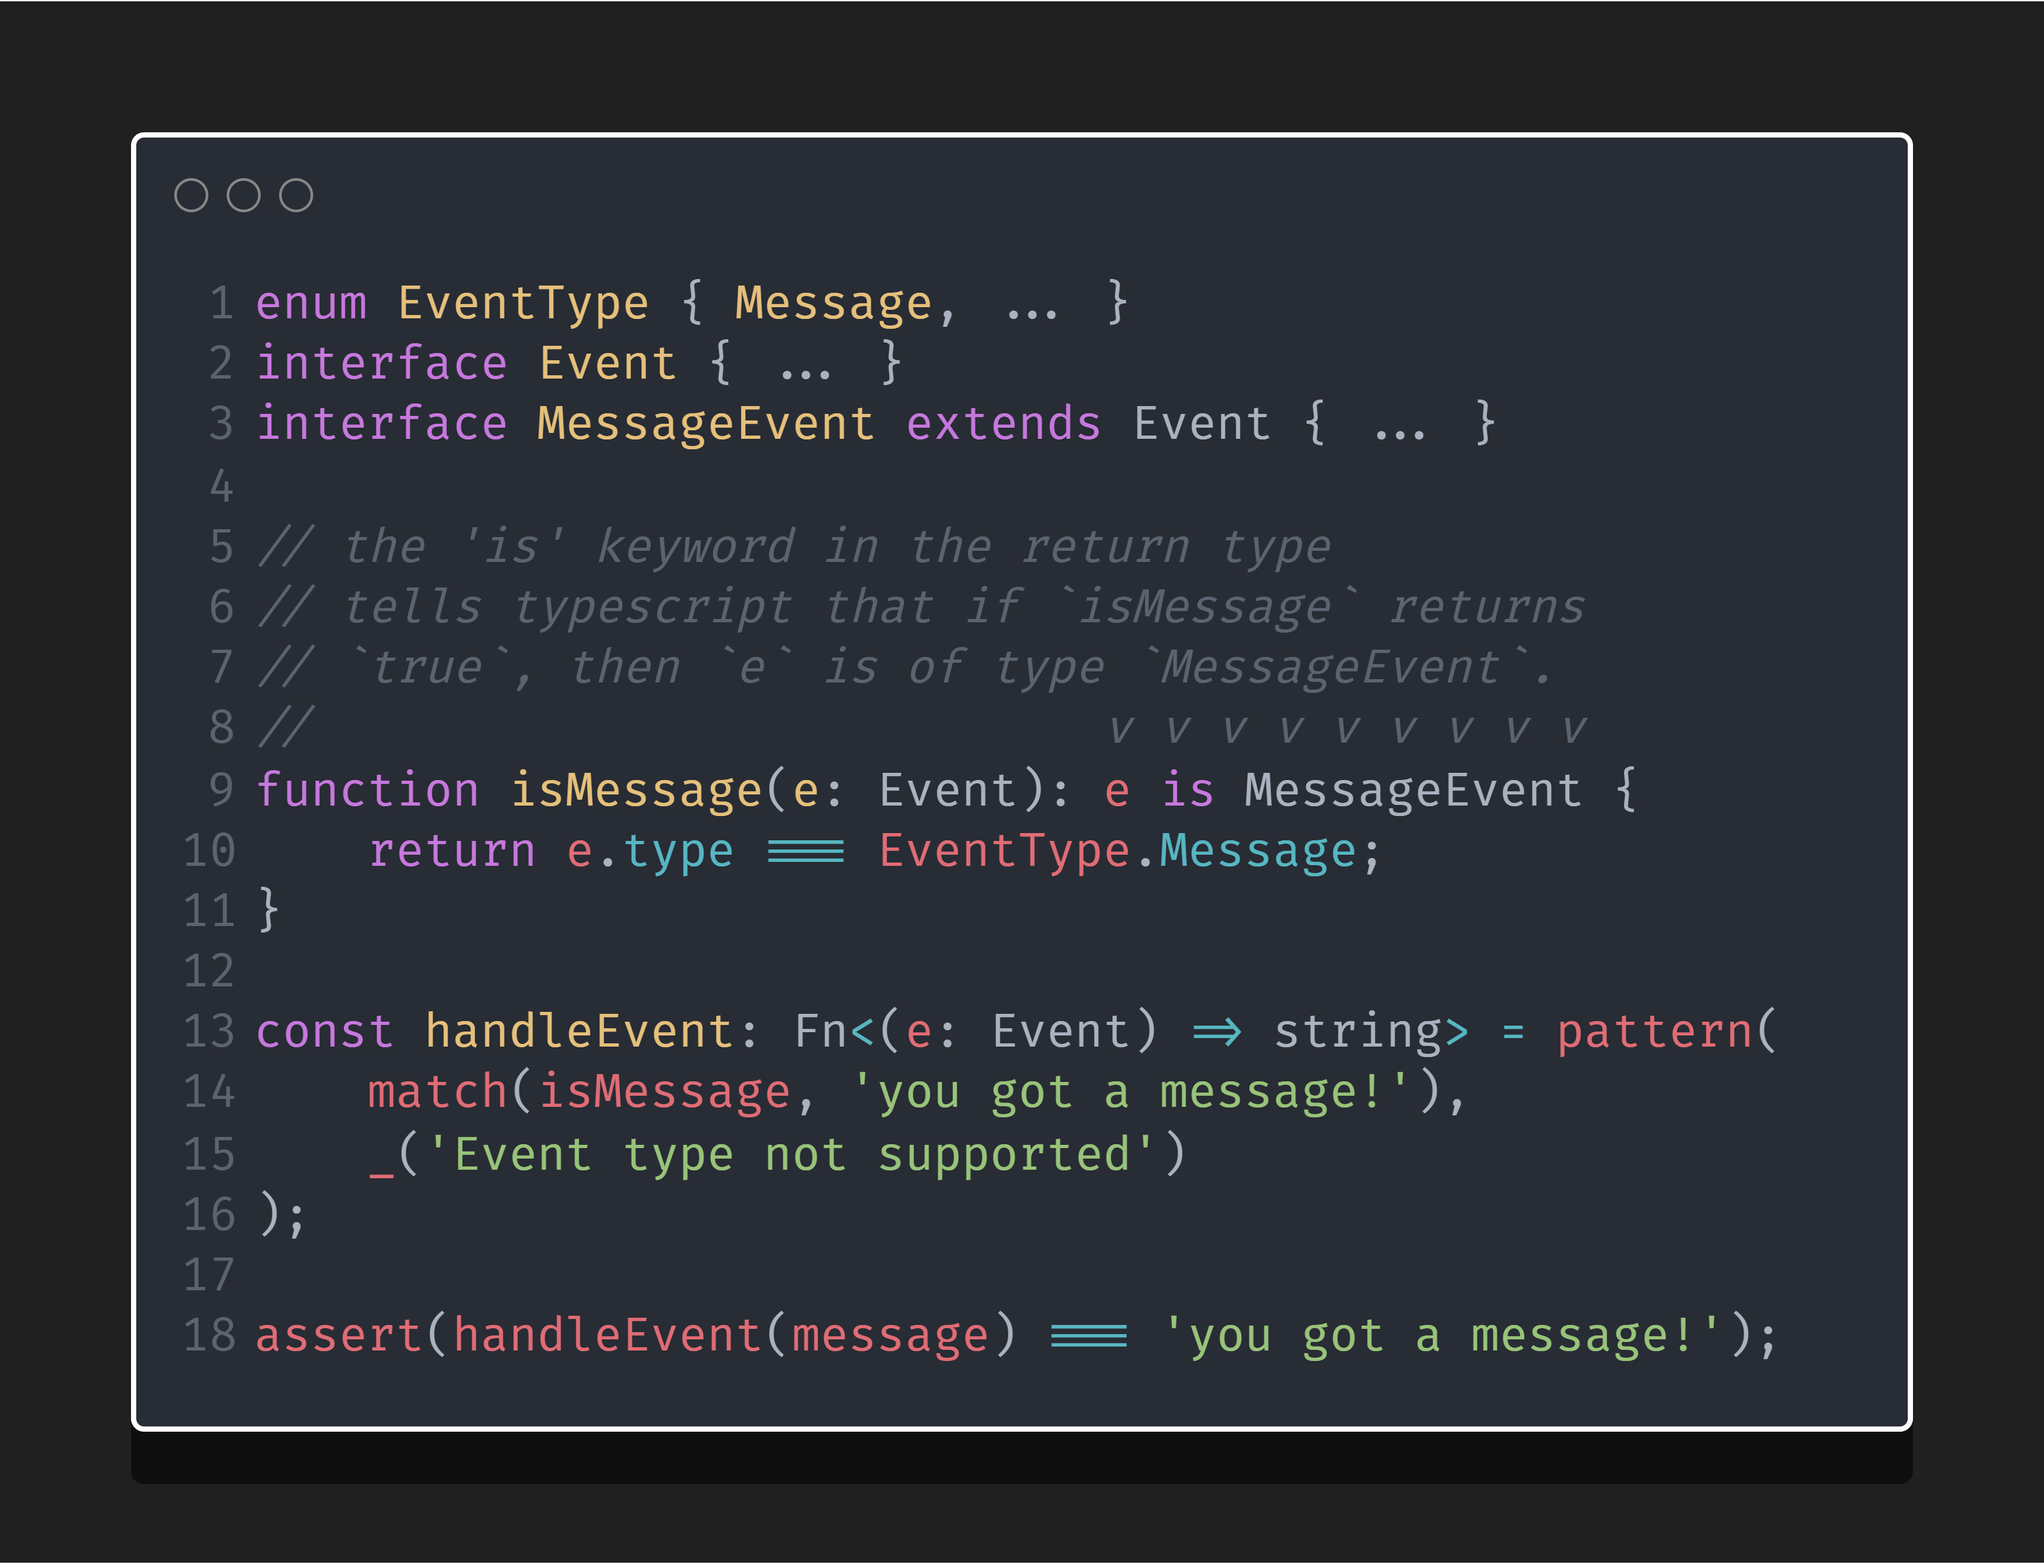
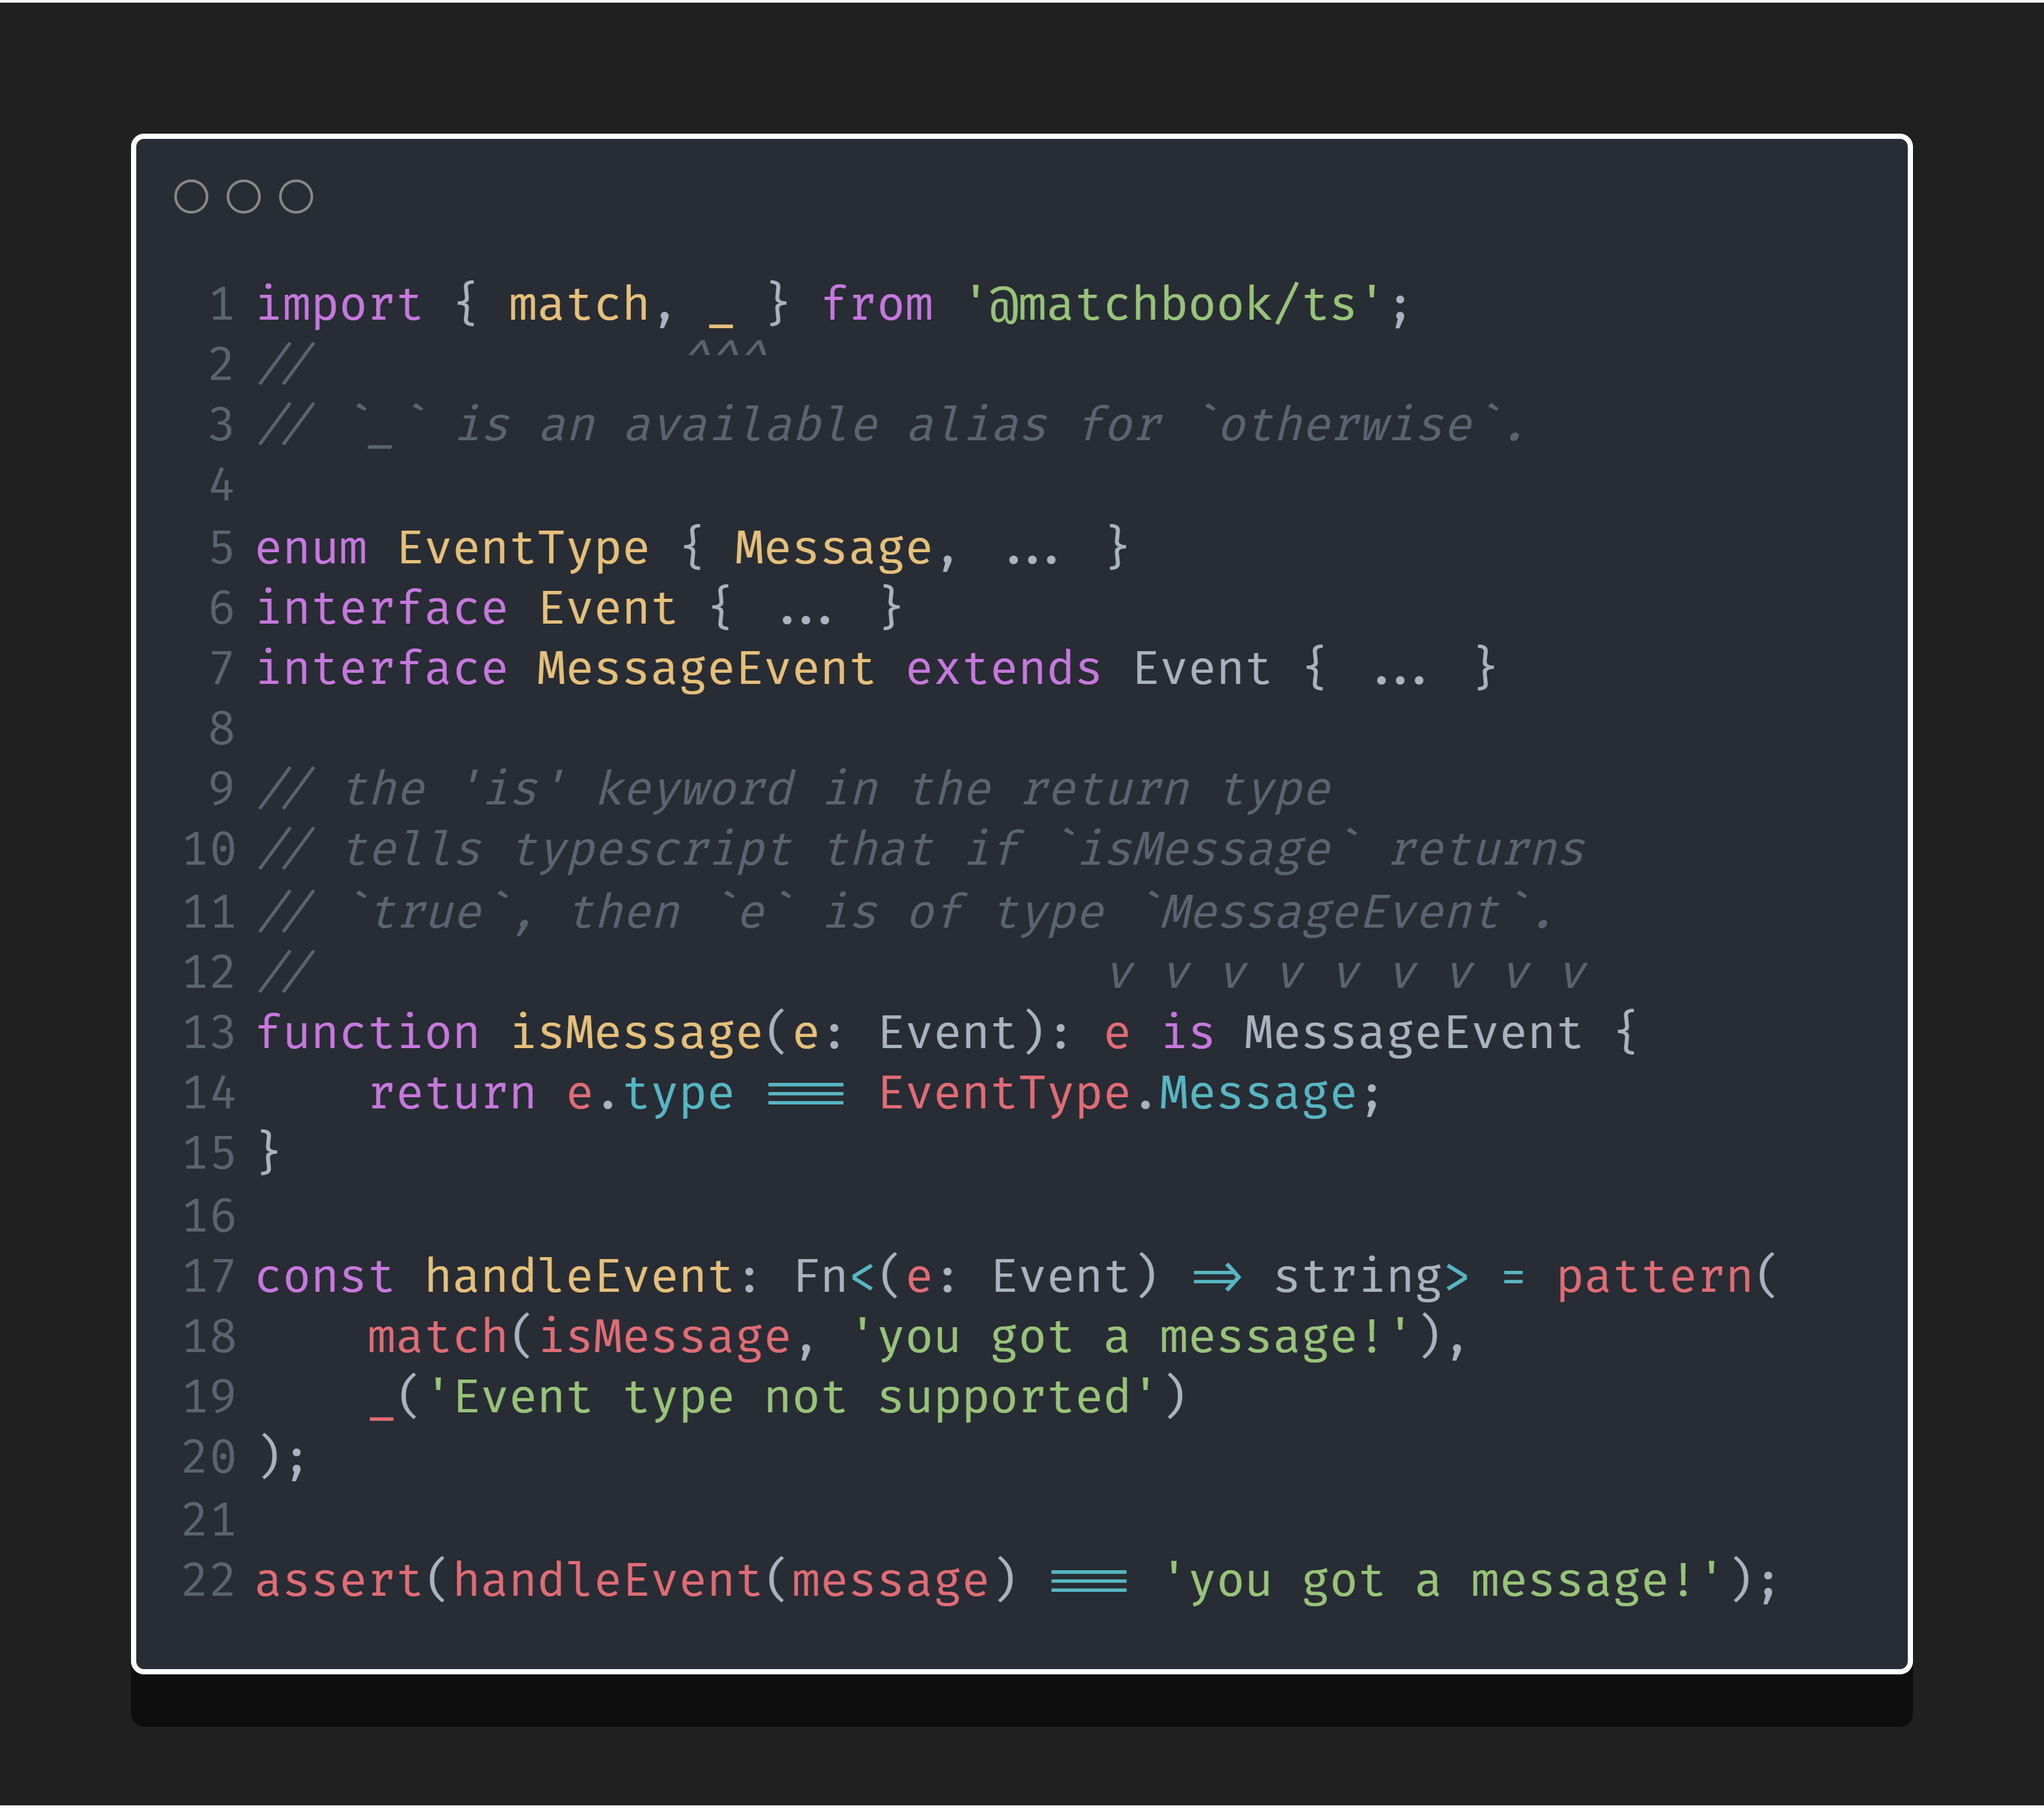
remove hrs, add imports to samples

diff --git a/assets/readme_samples/src/enum.snippet.ts b/assets/readme_samples/src/enum.snippet.ts
@@ -1,3 +1,13 @@
+import { match, pattern, unwrap } from '@matchbook/ts';
+//                       ^^^^^^
+// `unwrap` is like `otherwise`, but instead of
+// using a default value you're telling matchbook
+// that your pattern will definitely match.
+//
+// matchbook will throw an Error of type
+// `UnmatchedValueWasUnwrappedError` if your
+// match fails. making it much less safe than `otherwise`.
+
 enum Coin {
     Nickel,
     Quarter,
@@ -8,10 +18,8 @@ const getValue: Fn<(c: Coin) => number> = pattern(
     match(Coin.Penny,  0.01),
     match(Coin.Nickel, 0.05),
     match(Coin.Quarter, 0.25),
-    // `unwrap` is safe for now,
-    // but if someone adds
-    // a new kind of Coin,
-    // then this may throw!
+    // `unwrap` is safe for now, but if someone
+    // adds a new kind of Coin, then this may throw!
     unwrap,
 );
 

diff --git a/assets/readme_samples/src/type_guard.snippet.ts b/assets/readme_samples/src/type_guard.snippet.ts
@@ -1,3 +1,7 @@
+import { match, _ } from '@matchbook/ts';
+//             ^^^
+// `_` is an available alias for `otherwise`.
+
 enum EventType { Message, ... }
 interface Event { ... }
 interface MessageEvent extends Event { ... }

diff --git a/assets/readme_samples/src/ctor.snippet.ts b/assets/readme_samples/src/ctor.snippet.ts
@@ -1,3 +1,5 @@
+import { match, otherwise, pattern } from '@matchbook/ts';
+
 class Human { ... }
 class Teacher extends Human { ... }
 class Spiderman extends Human { ... }

diff --git a/README.md b/README.md
@@ -12,8 +12,6 @@ To start using matchbook, install it like any other npm package:
 
 ---
 
-![license][license_badge]
-
 [![npm version][npm_ver_badge]][npm_link]
 [![pkg size][npm_size_badge]][npm_link]
 [![build][build_badge]][build_link]
@@ -22,10 +20,9 @@ To start using matchbook, install it like any other npm package:
 ![top lang][lang_badge]
 [![codacy][codacy_badge]][codacy_link]
 [![codecov][codecov_badge]][codecov_link]
+![license][license_badge]
 
 ![it's as easy as a-b-c 1-2-3](assets/readme_samples/static/abc_123.snippet.png)
-
----
 
 ## table of contents
 
@@ -37,8 +34,6 @@ To start using matchbook, install it like any other npm package:
     -   [acting on the type of an Event](#acting-on-the-type-of-an-event)
     -   [matching if a value is an `instanceof` a constructor](#matching-if-a-value-is-an-instanceof-a-constructor)
 
----
-
 ## library goals
 
 -   **simple** - API is just **5** functions, along with some aliases
@@ -46,8 +41,6 @@ To start using matchbook, install it like any other npm package:
 -   **well documented** - (TODO: typedoc)
 -   **low cost** - no runtime dependencies, small package size
 -   **reliable** - 100% unit test coverage, all pushes verified via Travis CI 
-
----
 
 ## pattern matching explained
 Pattern matching is a  modern language feature
@@ -62,12 +55,8 @@ and want to handle the different cases in a
 This project takes heavy inspiration from
 [Rust's pattern matching idiom][rust_match].
 
----
-
 ## matchbook at a glance
 ![matchbook at a glance](assets/readme_samples/static/10-000-feet.snippet.png)
-
----
 
 ## matchbook at a slightly longer glance
 
